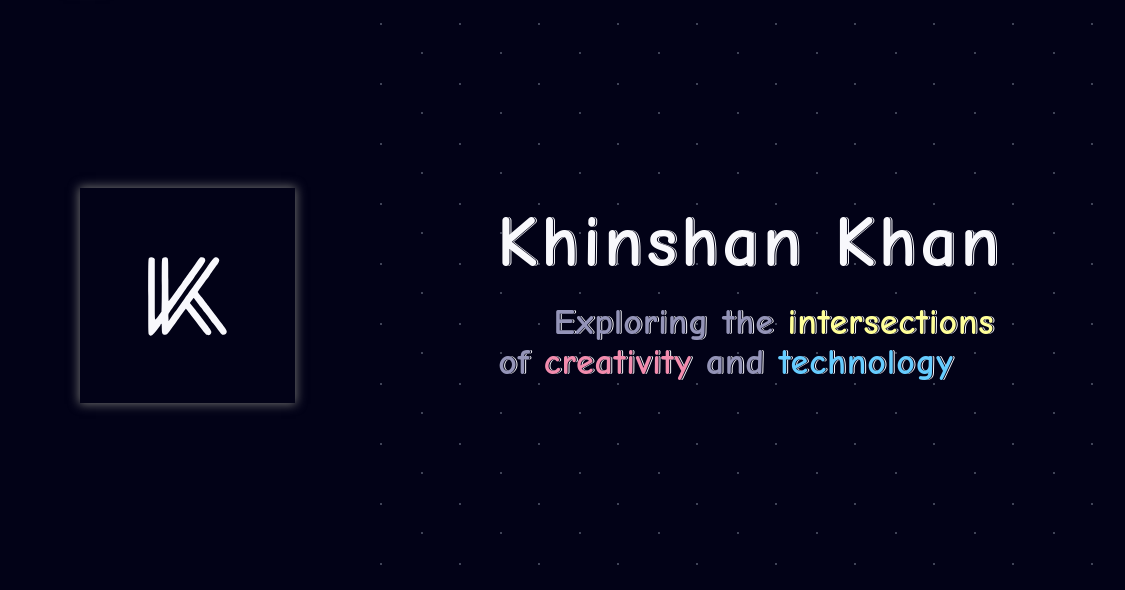
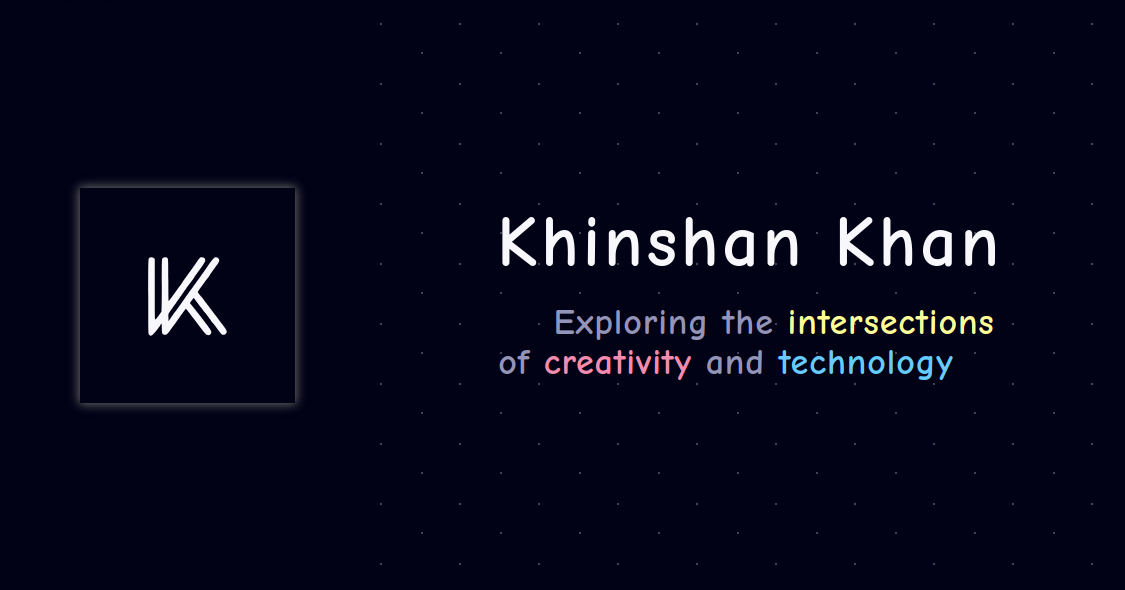
try removing blurriness

diff --git a/app/og/page.tsx b/app/og/page.tsx
@@ -33,7 +33,8 @@ export default function Og() {
         <div
           className="h-full w-[750px]"
           style={{
-            textShadow: "hsl(var(--knockout-foreground)) 1px 0 0px, hsl(var(--knockout)) 2px 0 0px",
+            // TODO: circle back to this
+            // textShadow: "hsl(var(--knockout-foreground)) 1px 0 0px, hsl(var(--knockout)) 2px 0 0px",
             backgroundImage: `radial-gradient(circle at 6px 24px, #404458 1%, transparent 1%), radial-gradient(circle at 47px 53px, #3f4356 1%, transparent 1%)`,
             backgroundSize: "79px 60px",
           }}
@@ -47,7 +48,7 @@ export default function Og() {
                     fontFamily: "var(--font-test)",
                   }}
                 >
-                  <span className="p-12 backdrop-blur-[3px]">Khinshan Khan</span>
+                  <span className="p-12">Khinshan Khan</span>
                 </h1>
 
                 <h2
@@ -61,7 +62,7 @@ export default function Og() {
                     fontFamily: "var(--font-test)",
                   }}
                 >
-                  <span className="p-12 backdrop-blur-[3px]">
+                  <span className="p-12">
                     Exploring the <span style={{ color: "var(--syntax-4)" }}>intersections</span> of{" "}
                     <span style={{ color: "var(--syntax-5)" }}>creativity</span> and{" "}
                     <span style={{ color: "var(--syntax-3)" }}>technology</span>{" "}
